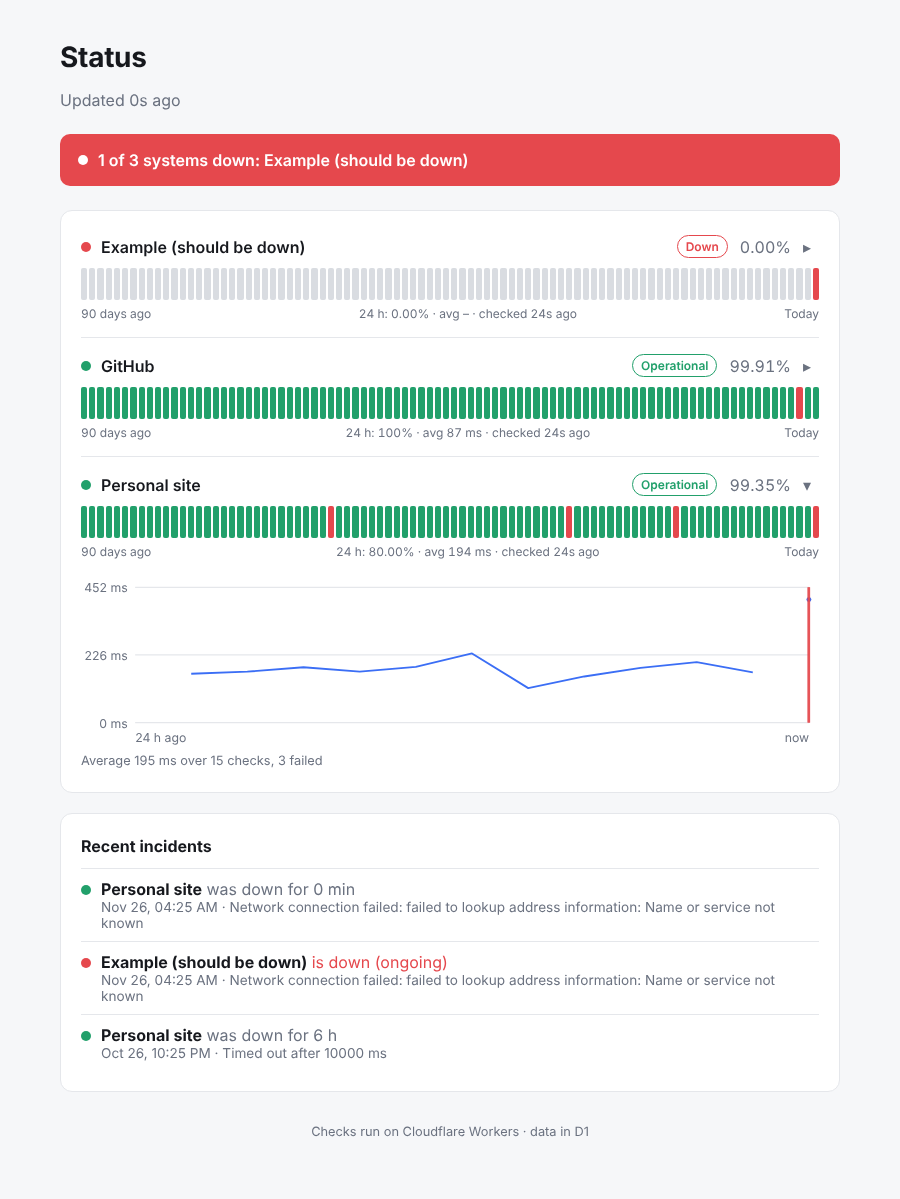
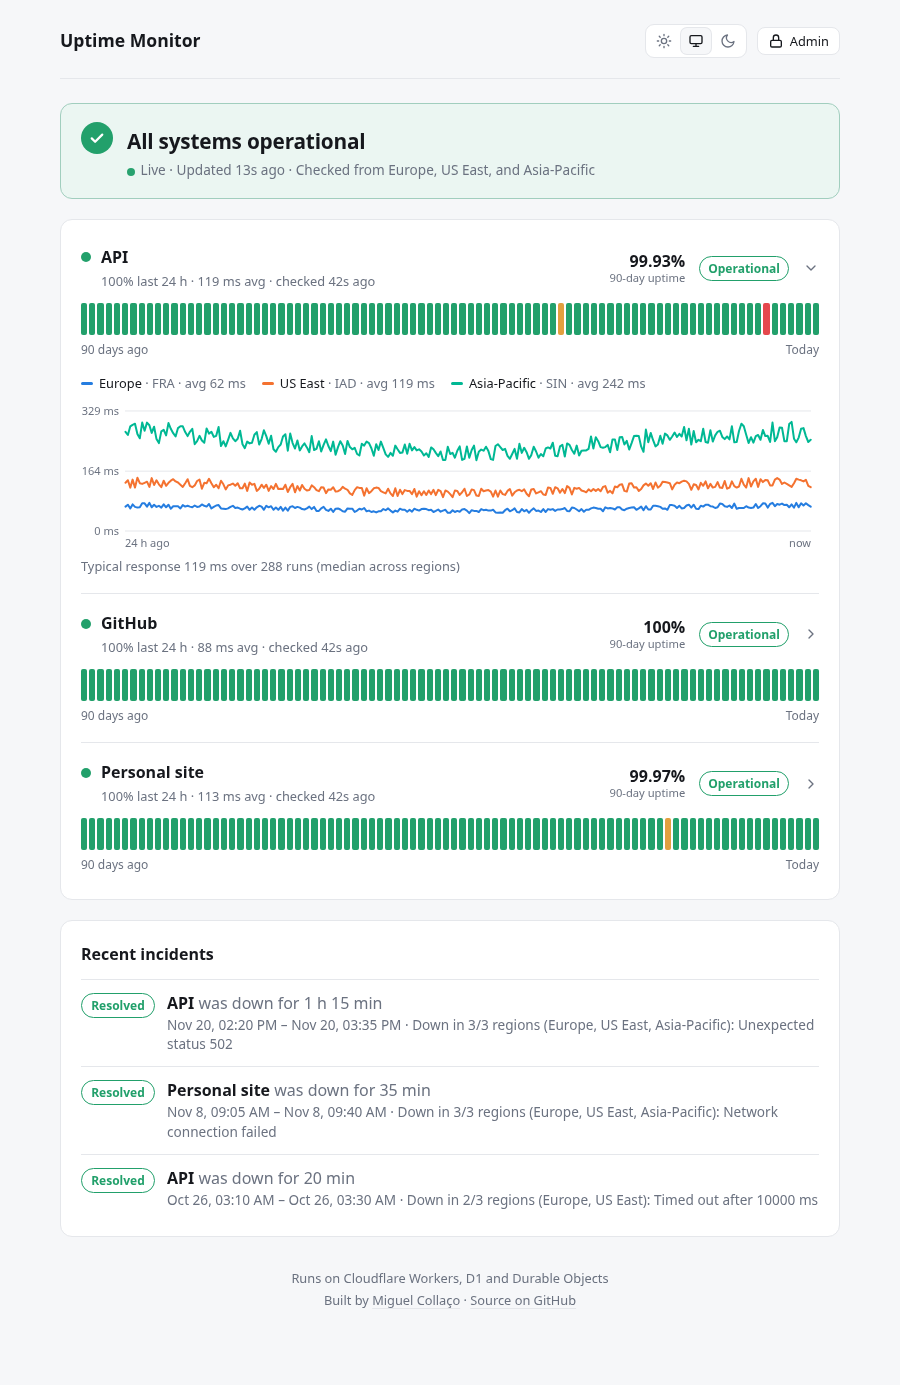
Update README screenshot for the new design
Taken with sample data, as the caption under the image says.

diff --git a/README.md b/README.md
@@ -11,7 +11,9 @@ A small, self-hosted uptime monitor that runs entirely on Cloudflare's free tier
 - **Live updates** over WebSockets through a Durable Object: open pages change as soon as checks run, no refresh needed
 - Everything is **one Worker**, deployed with one command
 
-![Status page](docs/screenshot.png)
+![Status page showing three monitors, per-region latency and recent incidents](docs/screenshot.png)
+
+<sub>Screenshot uses sample data.</sub>
 
 ## How it works
 
